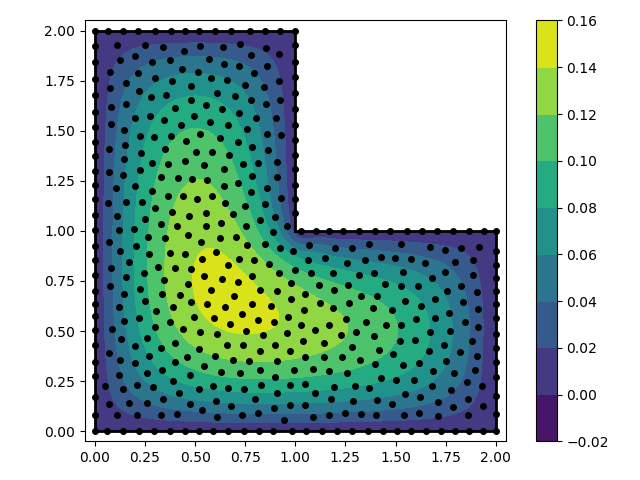
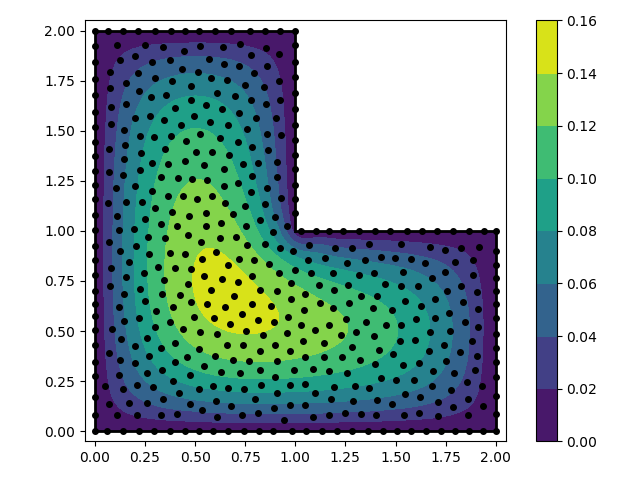
made colorbars for FD and spectral demo the same

diff --git a/rbf/gauss.py b/rbf/gauss.py
@@ -909,7 +909,8 @@ def outliers(d,s,mu=None,sigma=None,p=None,tol=4.0,return_fit=False):
   Uses a data editing algorithm to identify outliers in *d*. Outliers
   are considered to be the data that are abnormally inconsistent with
   the Gaussian process described by *mu* (mean), *sigma* (covariance),
-  and *p* (basis vectors).
+  and *p* (basis vectors). THis function can only be used for data
+  with nonzero, uncorrelated noise.
 
   The data editing algorithm first conditions the Gaussian process
   with the observations, then it compares each residual (*d* minus the
@@ -917,7 +918,7 @@ def outliers(d,s,mu=None,sigma=None,p=None,tol=4.0,return_fit=False):
   residuals. Data with residuals greater than *tol* times the RMS are
   identified as outliers. This process is then repeated using the
   subset of *d* which were not flagged as outliers. If no new outliers
-  are detected in an iteration then the algorithms stops.
+  are detected in an iteration then the algorithm stops.
 
   Parameters
   ----------  

diff --git a/docs/scripts/basis.a.py b/docs/scripts/basis.a.py
@@ -39,7 +39,7 @@ u[~contains(points,vert,smp)] = np.nan # mask outside points
 ug = u.reshape((400,400)) # fold back into a grid
 # make a contour plot of the solution
 fig,ax = plt.subplots()
-p = ax.contourf(xg,yg,ug,cmap='viridis')
+p = ax.contourf(xg,yg,ug,np.linspace(0.0,0.16,9),cmap='viridis')
 ax.plot(nodes[:,0],nodes[:,1],'ko',markersize=4)
 for s in smp:
   ax.plot(vert[s,0],vert[s,1],'k-',lw=2)

diff --git a/docs/scripts/fd.i.py b/docs/scripts/fd.i.py
@@ -60,7 +60,7 @@ u_itp[~contains(points,vert,smp)] = np.nan
 ug = u_itp.reshape((400,400)) # fold back into a grid
 # make a contour plot of the solution
 fig,ax = plt.subplots()
-p = ax.contourf(xg,yg,ug,cmap='viridis')
+p = ax.contourf(xg,yg,ug,np.linspace(0.0,0.16,9),cmap='viridis')
 ax.plot(nodes[:,0],nodes[:,1],'ko',markersize=4)
 for s in smp:
   ax.plot(vert[s,0],vert[s,1],'k-',lw=2)
